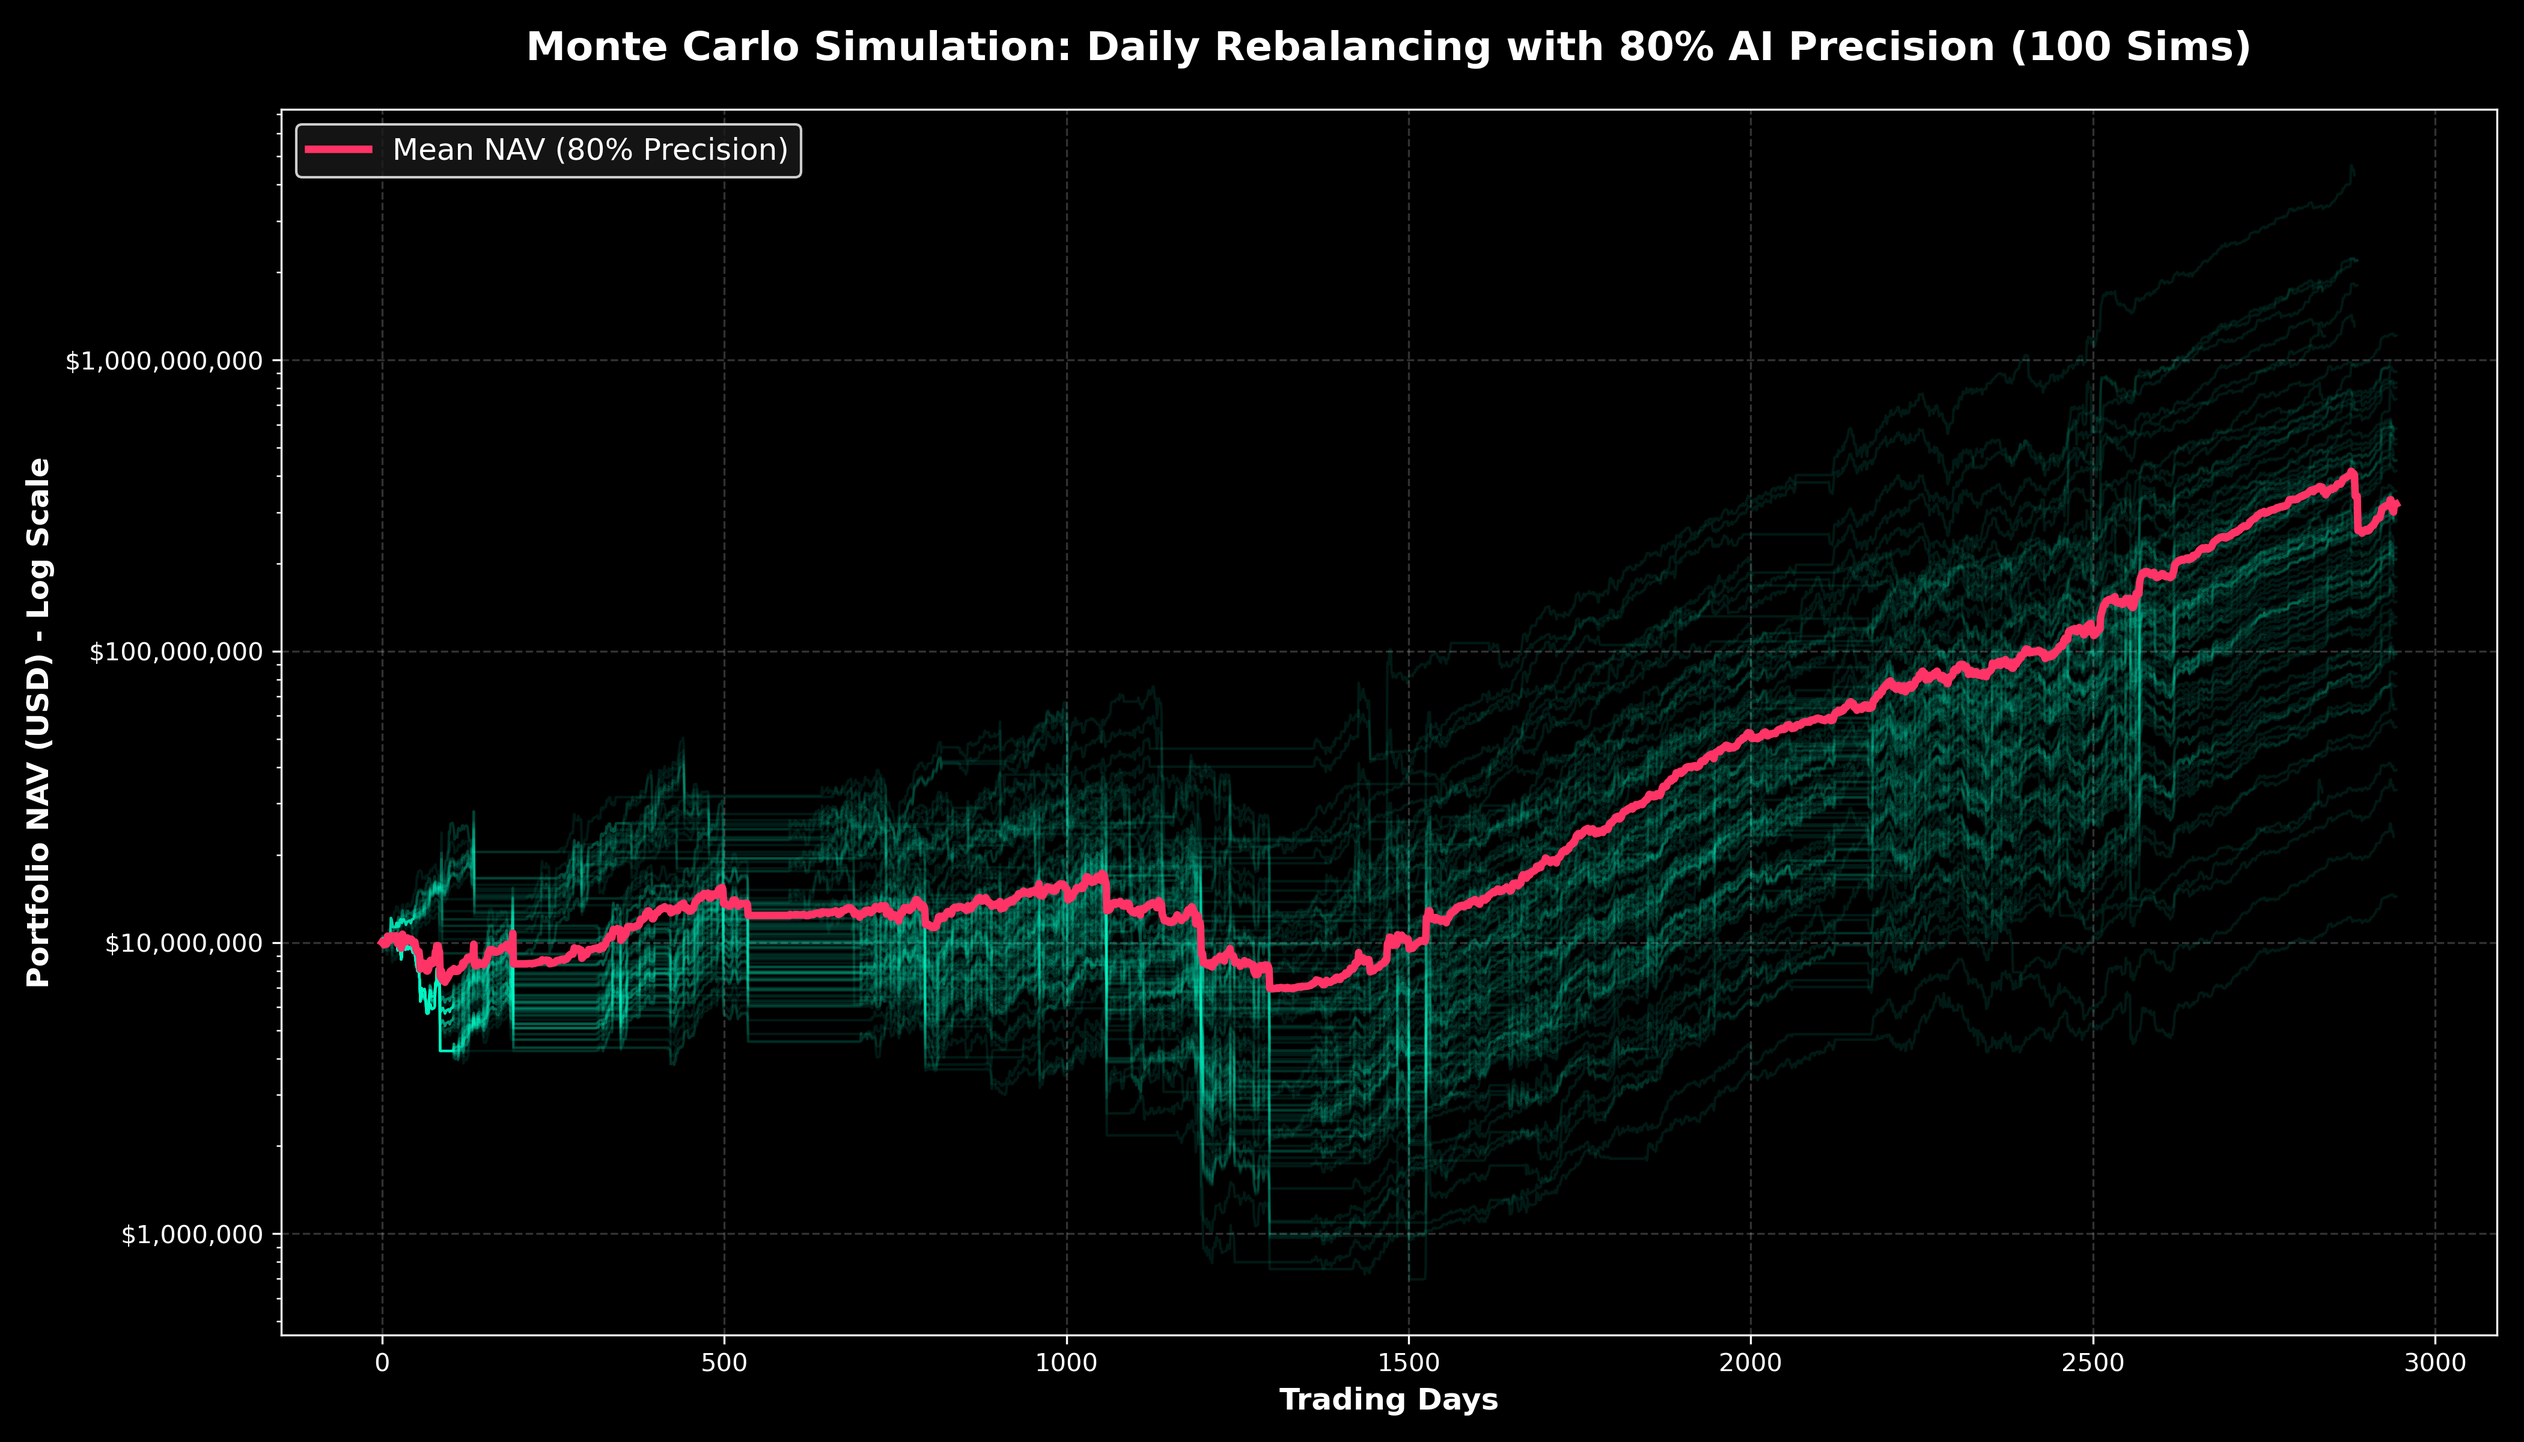
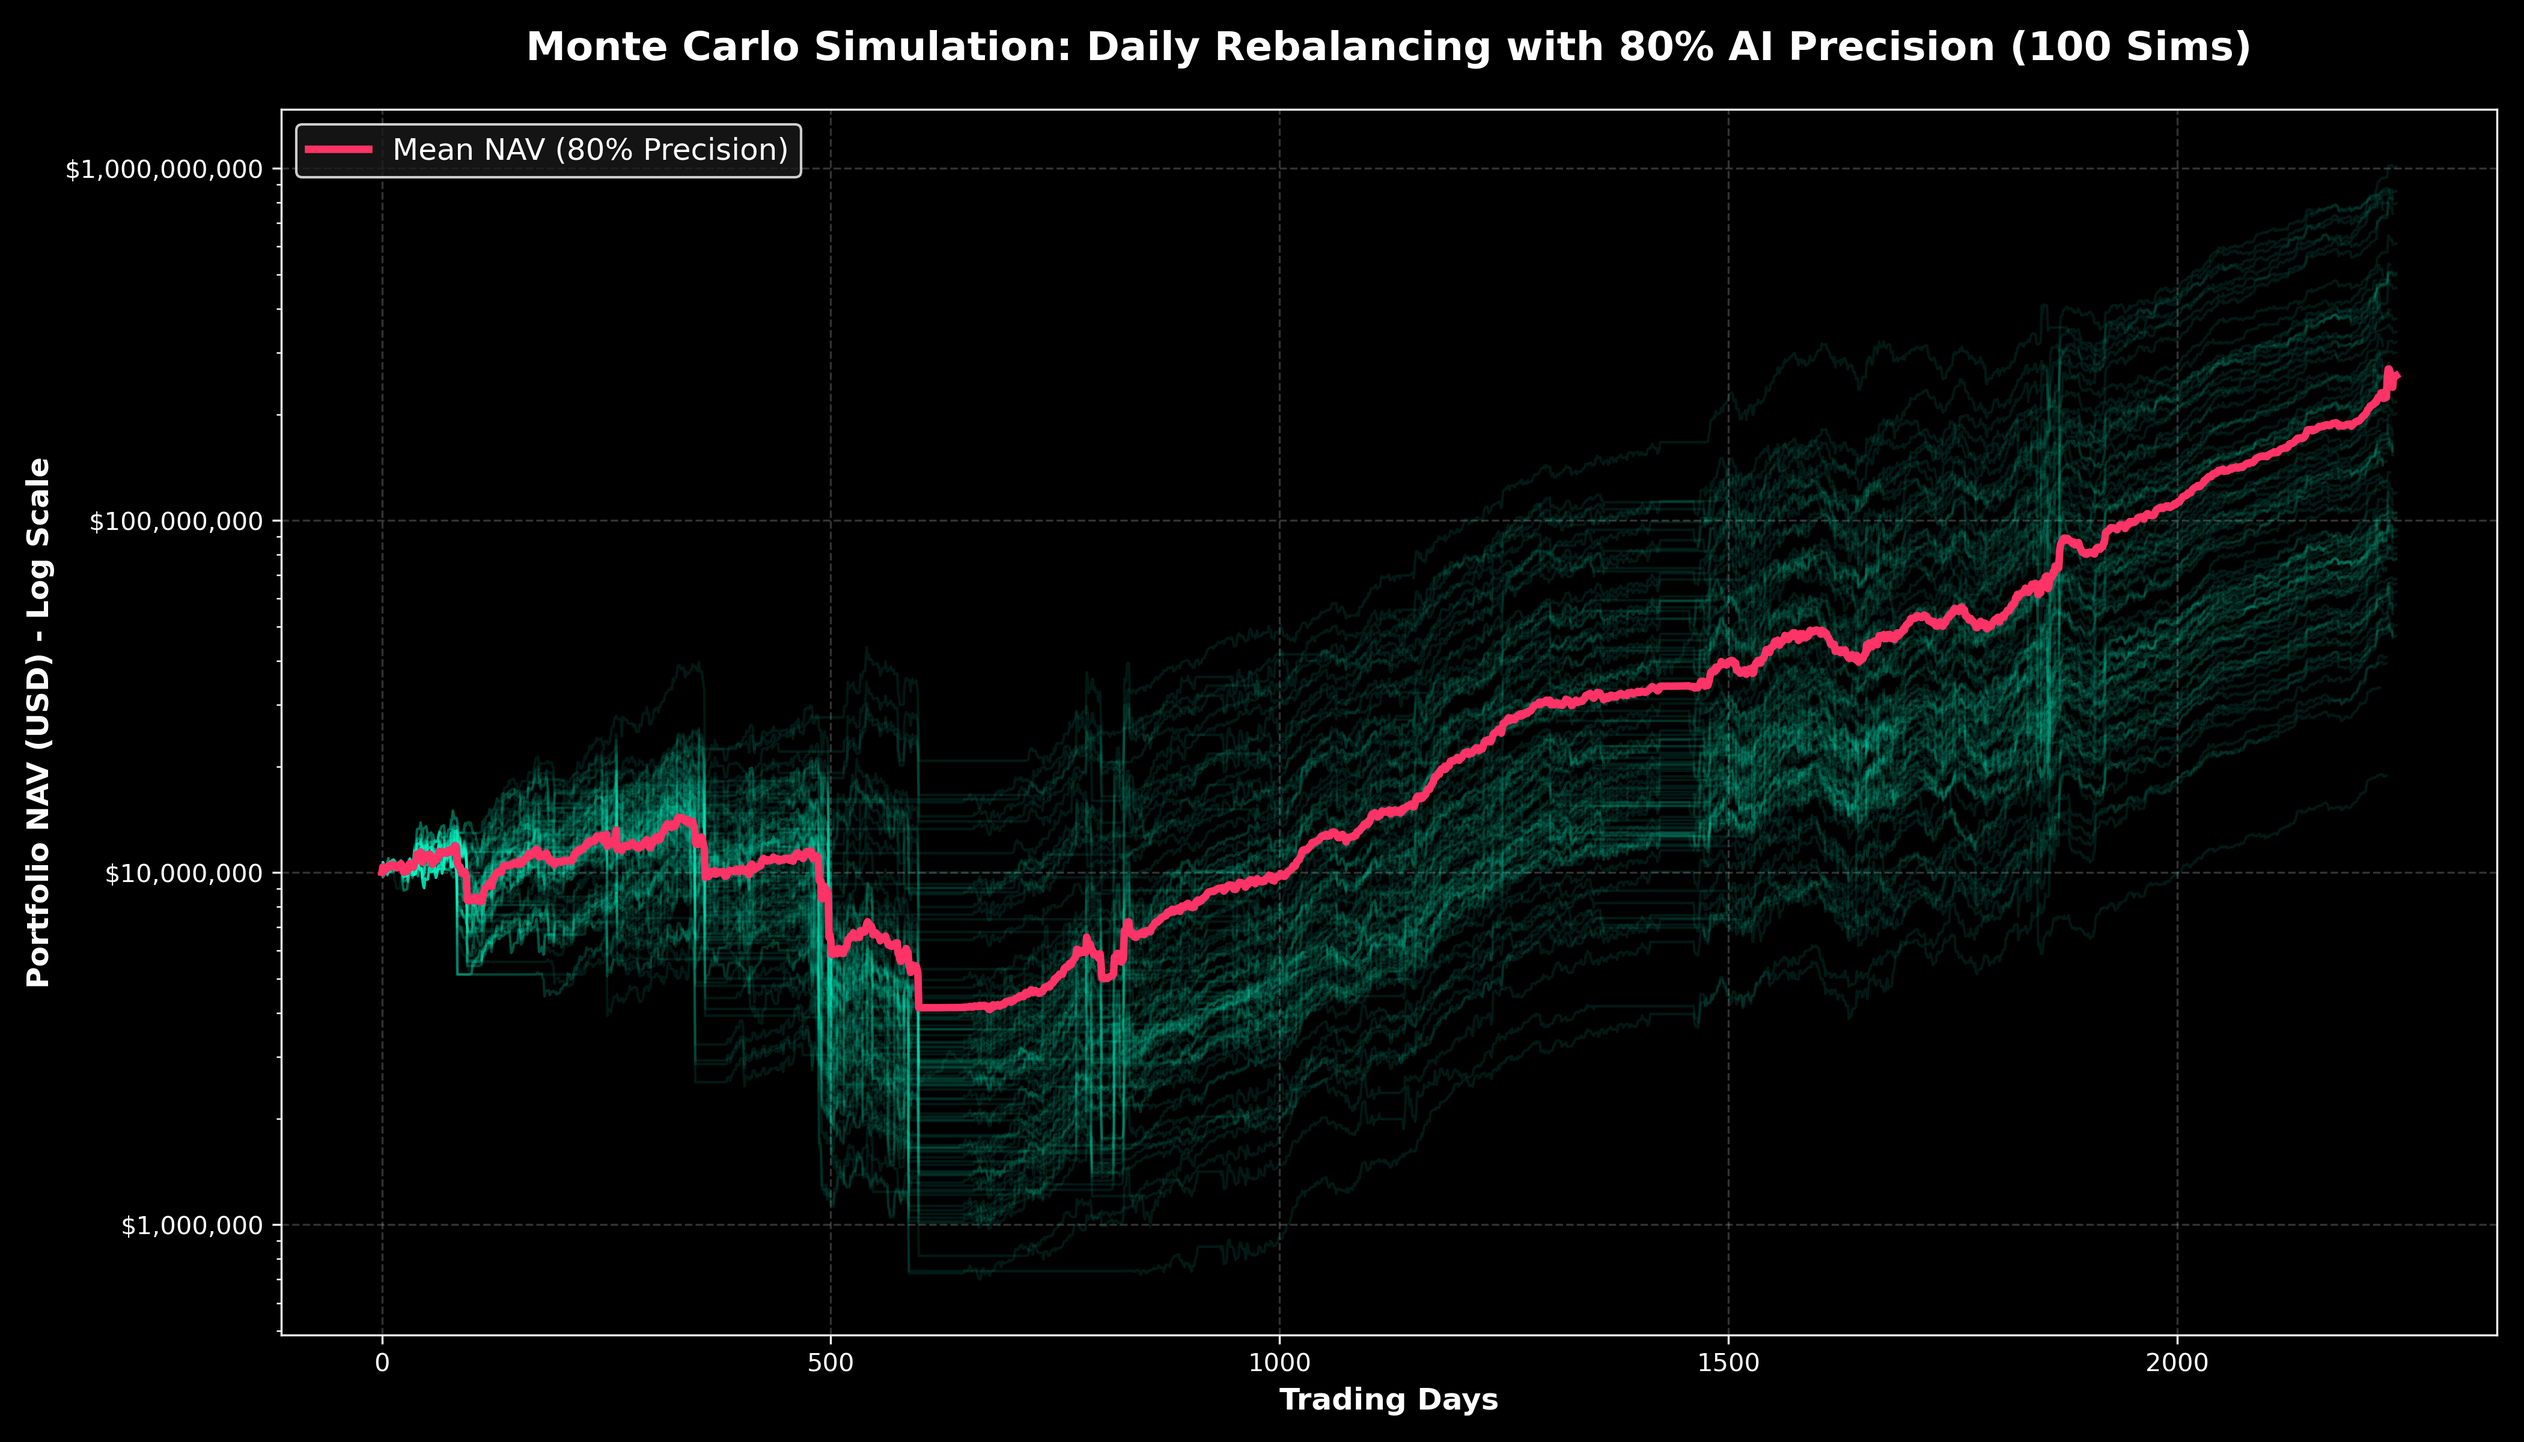
Filter out 2009 ALKS event causing dead-zone flatline

diff --git a/src/fpsl_mc_engine.py b/src/fpsl_mc_engine.py
@@ -88,6 +88,7 @@ with open(CSV_FILE, 'r') as f:
             })
 
 all_events.sort(key=lambda x: x['Catalyst_Date'])
+all_events = [ev for ev in all_events if ev['Catalyst_Date'] >= datetime(2011, 8, 1)]
 print(f"Found {len([e for e in all_events if e['Actual_Outcome'] == 'Success'])} successes and {len([e for e in all_events if e['Actual_Outcome'] == 'Failure'])} failures.")
 
 valid_events = []

diff --git a/README.md b/README.md
@@ -14,7 +14,7 @@ However, rather than relying solely on the capital appreciation (the "gap up") o
 4. **The FPSL Kicker (The "Rent"):** During the 60-day holding period, these biotech stocks are heavily shorted by the broader market predicting failure. The fund lends its shares out to these short-sellers, collecting massive borrow fees (typically ranging from 40% to 120% APR).
 5. **Exit:** The position is exited exactly 2 days after the catalyst date to capture the gap-up return and close the trade.
 
-A **Monte Carlo Simulation (100 Iterations)** was performed assuming the AI model has an **80% Precision Rate** (80% of taken trades are actual clinical successes, 20% are actual failures). The 8-year daily-rebalancing model compounded an initial capital of $10M into a **Mean Final NAV of $320.15 Million** (a **53.50% Mean CAGR**).
+A **Monte Carlo Simulation (100 Iterations)** was performed assuming the AI model has an **80% Precision Rate** (80% of taken trades are actual clinical successes, 20% are actual failures). The daily-rebalancing model (ignoring the 1.5 year gap prior to August 2011) compounded an initial capital of $10M into a **Mean Final NAV of $257.90 Million** (a **57.93% Mean CAGR**).
 
 ![Fund Performance Curve](fpsl_mc_plot.png)
 
@@ -24,7 +24,7 @@ In reality, many "successful" Phase 2/3 trials result in the stock trading down 
 ![Per-Trade Statistics](fpsl_mc_boxplots.png)
 
 ### Representative Simulation (Per-Trade Breakdown)
-To visualize exactly how the yield cushions the capital losses in a single sequential timeline, the script isolates the specific simulation whose final NAV closest matches the $320.15 Million Mean.
+To visualize exactly how the yield cushions the capital losses in a single sequential timeline, the script isolates the specific simulation whose final NAV closest matches the $257.90 Million Mean.
 
 ![Representative MC Simulation Trades](fpsl_mc_representative_trades.png)
 
